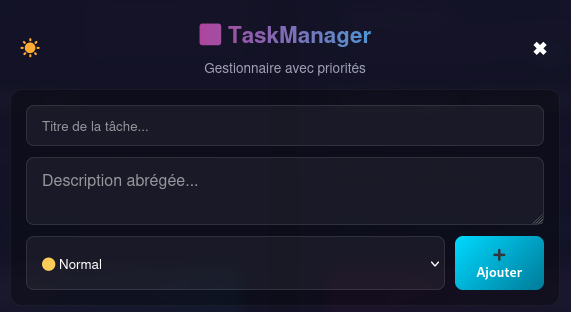
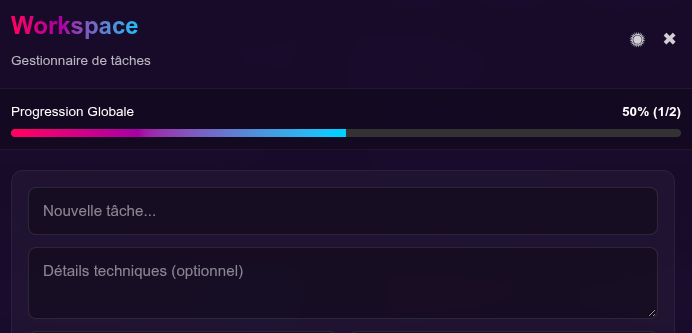
mise a jour textes

diff --git a/src/App.tsx b/src/App.tsx
@@ -67,9 +67,9 @@ function App() {
     },
     {
       id: 4,
-      title: "TaskManager - React Web App",
-      description: "Application complète de gestion de tâches avec priorités, filtrage, et persistance localStorage.",
-      technologies: ["React", "TypeScript", "State Management", "localStorage"],
+      title: "TaskManager - Workspace",
+      description: "Application complète de gestion de tâches avec suivi de progression globale, filtrage par statut/priorité, catégories et persistance localStorage.",
+      technologies: ["React", "TypeScript", "CSS-in-JS", "localStorage", "Responsive Design"],
       image: "/images/taskmanager.png",
       setDemoState: setIsTaskManagerOpen,
     },

diff --git a/src/components/TaskManagerDemo.tsx b/src/components/TaskManagerDemo.tsx
@@ -373,8 +373,8 @@ const TaskManagerAdvanced: React.FC<TaskManagerAdvancedProps> = ({ isOpen, onClo
           {/* En-tête */}
           <div className="tm-header">
             <div className="tm-title">
-              <h2>🚀 GTT Workspace</h2>
-              <p>Gestionnaire de tâches avancé</p>
+              <h2>Workspace</h2>
+              <p>Gestionnaire de tâches</p>
             </div>
             <div className="tm-header-actions">
               <button
